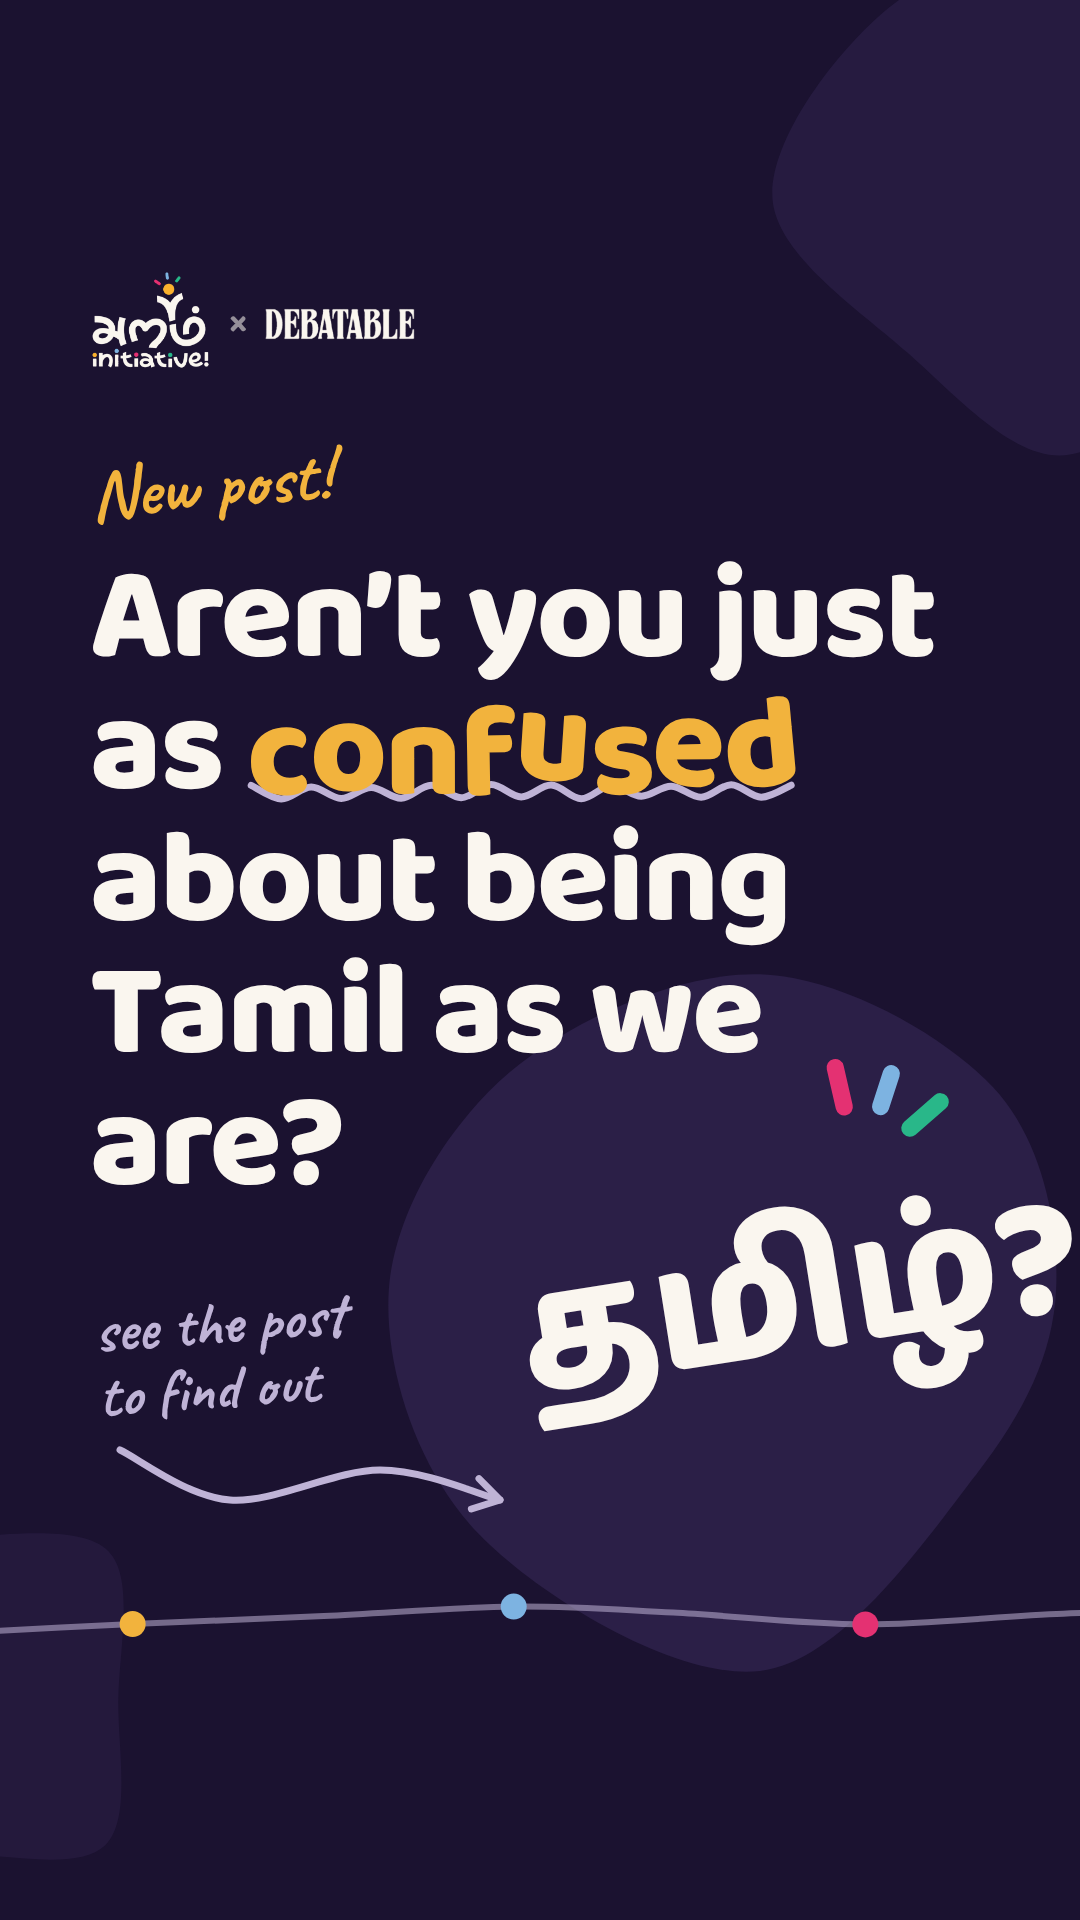
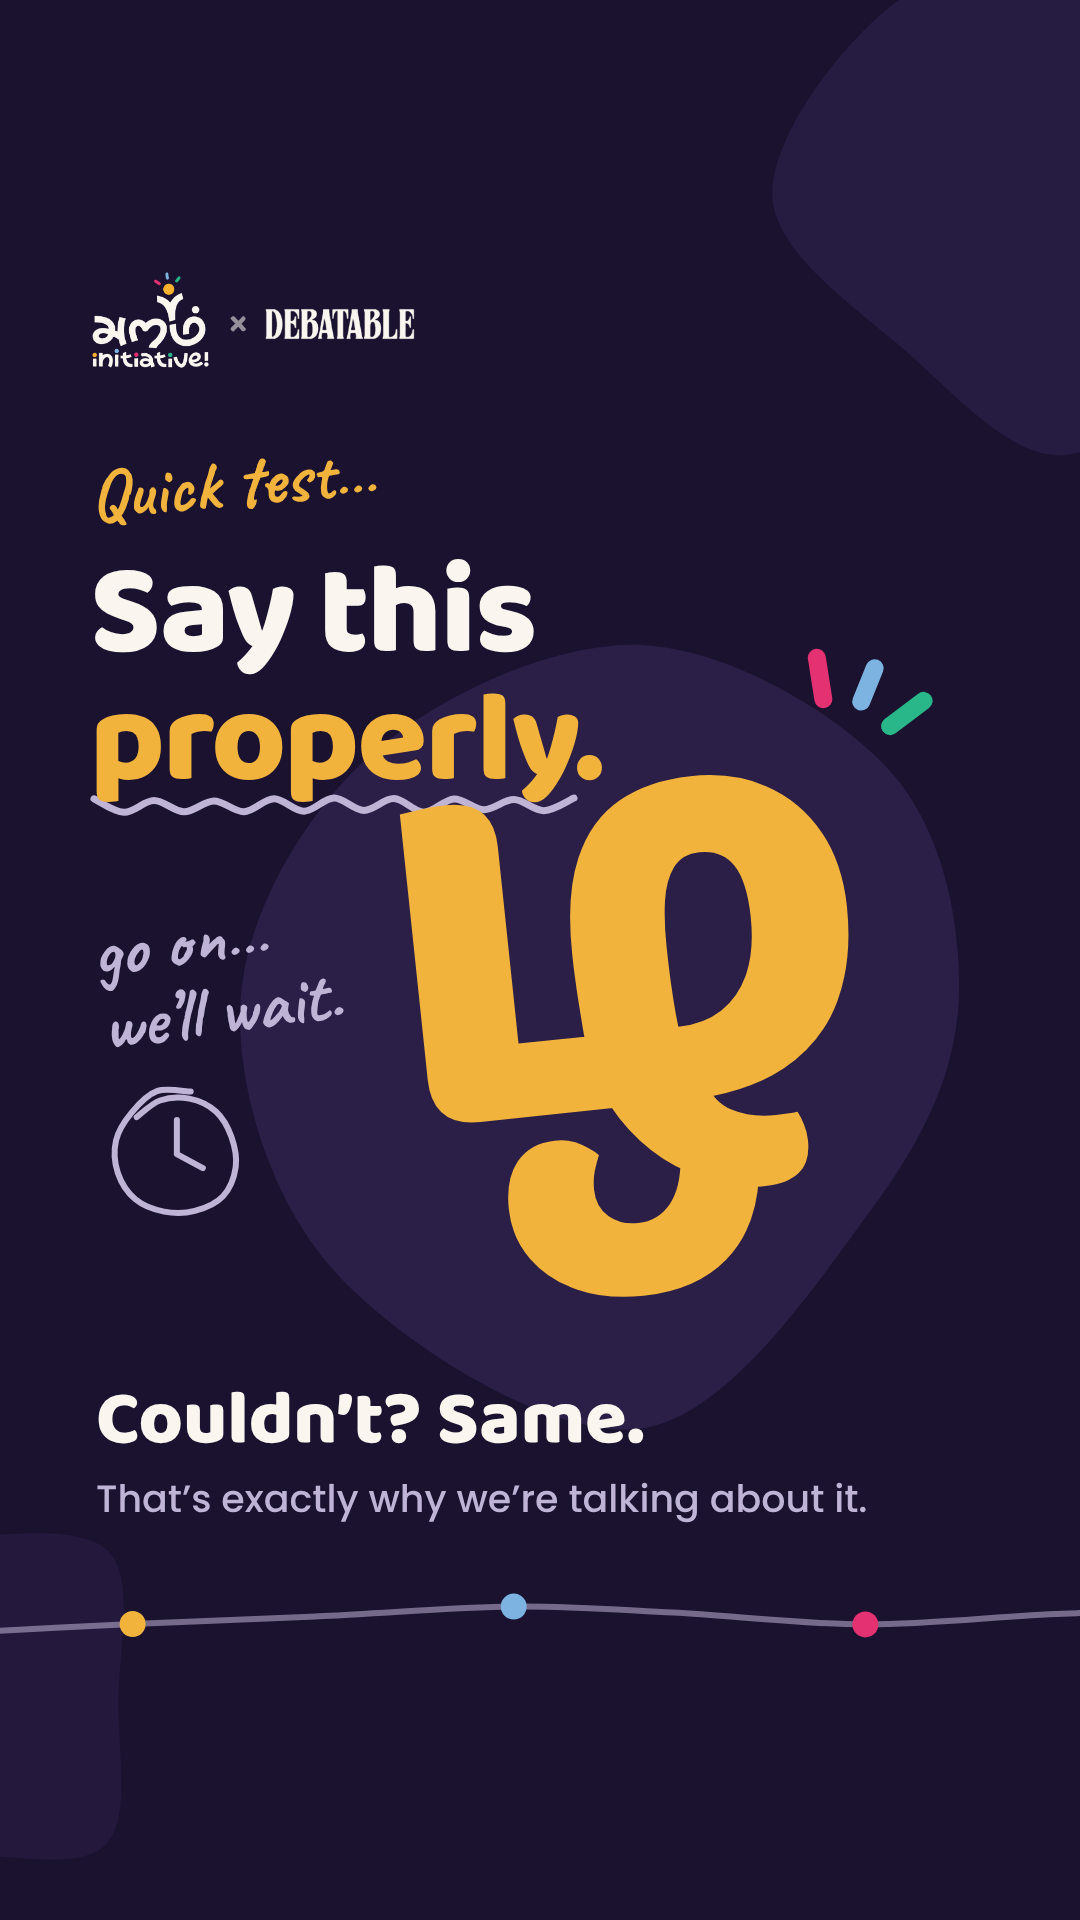
Make the story funny with a stronger hook
Frame 1 opens on a 'say ழ properly' test, frame 2 becomes a
'You might be Tamil if...' tick list, frame 3 'Bring your identity
crisis. We'll bring the debate.' with the workshop details.

Claude-Session: https://claude.ai/code/session_01AGHRGhB2cJ8kR64sZWPzq6

diff --git a/aram-what-is-tamil/story.html b/aram-what-is-tamil/story.html
@@ -59,73 +59,79 @@
 
   /* 1 */
   .f1 .kicker { margin-top: 90px; }
-  .f1 .h { margin-top: 18px; font-size: 132px; }
-  .wobble { display: inline-block; color: var(--orange); }
-  .wobble span { display: inline-block; }
-  .f1 .tamil { position: absolute; left: 520px; top: 1215px; transform: rotate(-9deg); font-family: var(--round); font-weight: 800; font-size: 170px; line-height: 1; color: var(--cream); }
-  .f1 .nudge { position: absolute; left: 96px; top: 1290px; font-size: 62px; line-height: 1.05; color: var(--muted); transform: rotate(-4deg); }
+  .f1 .h { margin-top: 16px; font-size: 128px; }
+  .zha { position: absolute; left: 380px; top: 660px; font-family: var(--round); font-weight: 800; font-size: 560px; line-height: 1; color: var(--orange); transform: rotate(-6deg); }
+  .f1 .wait { position: absolute; left: 96px; top: 900px; font-size: 74px; line-height: 1; color: var(--muted); transform: rotate(-8deg); }
+  .f1 .same { position: absolute; left: 96px; right: 96px; top: 1380px; font-family: var(--round); font-weight: 800; font-size: 76px; line-height: 1.05; }
+  .f1 .same span { display: block; margin-top: 14px; font-family: var(--body); font-weight: 500; font-size: 38px; line-height: 1.3; color: var(--muted); }
 
   /* 2 */
   .f2 .kicker { margin-top: 80px; }
-  .f2 .h { margin-top: 10px; }
-  .opts { align-self: stretch; margin-top: 56px; display: flex; flex-direction: column; gap: 22px; align-items: flex-start; }
-  .opt { font-family: var(--round); font-weight: 700; font-size: 50px; line-height: 1; padding: 26px 40px 16px; border-radius: 70px 52px 66px 48px / 52px 70px 48px 66px; box-shadow: 0 7px 0 rgba(27,18,48,.14); }
-  .f2 .ask { position: absolute; left: 0; right: 0; top: 1330px; text-align: center; font-size: 64px; color: var(--plum); transform: rotate(-3deg); }
+  .f2 .h { margin-top: 10px; font-size: 112px; }
+  .checks { align-self: stretch; margin-top: 46px; display: flex; flex-direction: column; gap: 26px; }
+  .check { display: flex; align-items: center; gap: 26px; }
+  .box { flex: 0 0 auto; width: 74px; height: 74px; position: relative; }
+  .box svg { position: absolute; inset: -14px; width: 102px; height: 102px; overflow: visible; }
+  .check p { font-family: var(--round); font-weight: 700; font-size: 44px; line-height: 1.08; }
+  .check p em { font-style: normal; color: var(--plum); }
+  .f2 .ask { position: absolute; left: 0; right: 0; top: 1395px; text-align: center; font-size: 64px; color: var(--plum); transform: rotate(-3deg); }
 
   /* 3 */
   .f3 .kicker { margin-top: 80px; color: var(--purple-ink); }
-  .f3 .sun { margin-top: 26px; font-family: var(--round); font-weight: 800; font-size: 76px; color: var(--plum); transform: rotate(-4deg); }
-  .f3 .join { font-family: var(--round); font-weight: 800; font-size: 150px; line-height: .9; letter-spacing: -.02em; }
-  .event { align-self: stretch; margin-top: 56px; padding: 40px 44px 36px; background: var(--purple); color: var(--cream);
+  .f3 .h.big { margin-top: 14px; font-size: 128px; line-height: .98; }
+  .f3 .h.big .hl { color: var(--cream); }
+  .f3 .h.med { margin-top: 26px; font-size: 76px; color: var(--plum); }
+  .event { align-self: stretch; margin-top: 50px; padding: 40px 44px 36px; background: var(--purple); color: var(--cream);
     border-radius: 60px 44px 64px 48px / 48px 64px 44px 60px; transform: rotate(-1.5deg); box-shadow: 0 12px 0 rgba(27,18,48,.2); }
   .event .name { font-family: var(--round); font-weight: 800; font-size: 64px; line-height: 1; }
   .event .name span { color: var(--orange); }
   .event .facts { display: flex; flex-wrap: wrap; gap: 14px; margin-top: 24px; }
   .event .facts b { font-family: var(--body); font-weight: 600; font-size: 34px; line-height: 1; padding: 16px 24px 13px; border-radius: 30px 24px 32px 22px / 24px 32px 22px 30px; background: var(--purple-soft); }
   .event .facts b.hl { background: var(--orange); color: var(--purple-ink); }
-  .f3 .ask { position: absolute; left: 0; right: 0; top: 1395px; text-align: center; font-size: 60px; color: var(--purple-ink); transform: rotate(-3deg); }
-
-  body { background: #888; display: flex; flex-direction: row; align-items: flex-start; gap: 40px; padding: 40px; font-family: var(--body); }
+  .f3 .promise { margin-top: 34px; align-self: center; font-size: 56px; color: var(--purple-ink); transform: rotate(-2deg); }
+  .f3 .ask { position: absolute; left: 0; right: 0; top: 1440px; text-align: center; font-size: 54px; color: var(--plum); transform: rotate(-3deg); }
 </style>
 </head>
 <body>
 
-<!-- Story 1: hook, points to the new post -->
+<!-- Story 1: the hook -->
 <section class="story night f1">
   <svg class="decor" id="d1"></svg>
   <div class="content">
     <div class="lockup"><img class="logo" src="brand/aram-logo-cream.png" alt="Aram Initiative"><span class="x">×</span><img class="deb" src="brand/debatable-wordmark-cream.png" alt="Debatable"></div>
-    <div class="kicker">New post!</div>
-    <h1 class="h">Aren’t you just as <span class="wobble" id="confused">confused</span> about being Tamil as we are?</h1>
-    <div class="tamil">தமிழ்?</div>
-    <div class="nudge hand">see the post<br>to find out</div>
+    <div class="kicker">Quick test…</div>
+    <h1 class="h">Say this <span class="hl">properly.</span></h1>
+    <div class="zha" id="zha">ழ</div>
+    <div class="wait hand">go on…<br>we’ll wait.</div>
+    <div class="same">Couldn’t? Same.<br><span>That’s exactly why we’re talking about it.</span></div>
   </div>
 </section>
 
-<!-- Story 2: the questions, with room for a poll / question sticker -->
+<!-- Story 2: the jokes, with room for a Question sticker -->
 <section class="story cream f2">
   <svg class="decor" id="d2"></svg>
   <div class="content">
     <div class="lockup"><img class="logo" src="brand/aram-logo.png" alt="Aram Initiative"><span class="x">×</span><img class="deb" src="brand/debatable-wordmark-night.png" alt="Debatable"></div>
-    <div class="kicker">So what makes you Tamil?</div>
-    <h2 class="h">Is it <span class="hl">…</span></h2>
-    <div class="opts" id="opts"></div>
-    <div class="ask hand">tell us below!</div>
+    <div class="kicker">Tick all that apply</div>
+    <h2 class="h">You might be <span class="hl">Tamil</span> if…</h2>
+    <div class="checks" id="checks"></div>
+    <div class="ask hand">add yours below!</div>
   </div>
 </section>
 
-<!-- Story 3: the event, with room for a link sticker -->
+<!-- Story 3: the event, with room for a Link sticker -->
 <section class="story gold f3">
   <svg class="decor" id="d3"></svg>
   <div class="content">
     <div class="lockup"><img class="logo" src="brand/aram-logo.png" alt="Aram Initiative"><span class="x">×</span><img class="deb" src="brand/debatable-wordmark-night.png" alt="Debatable"></div>
-    <div class="kicker">So let’s talk!</div>
-    <div class="sun">ஞாயிறு</div>
-    <div class="join">Join us this <span id="sunday">Sunday</span>…</div>
+    <div class="kicker">This Sunday</div>
+    <h2 class="h big">Bring your <span class="hl" id="crisis">identity crisis.</span></h2>
+    <div class="h med">We’ll bring the debate.</div>
     <div class="event">
       <div class="name">Tamil Identity <span>Workshop</span></div>
       <div class="facts"><b class="hl">Sun 15 November</b><b class="hl">1:00 PM</b><b>Sugar &amp; Spice Lounge</b></div>
     </div>
+    <div class="promise hand">No ழ test at the door. Promise.</div>
     <div class="ask hand">grab your spot below</div>
   </div>
 </section>
@@ -221,46 +227,57 @@
   (() => {
     const d = document.getElementById("d1");
     blob(d, 1060, 200, 260, C.soft, 3, { o: .7 });
-    blob(d, 760, 1290, 320, C.soft, 7, { sx: 1.15 });
+    blob(d, 640, 1000, 360, C.soft, 7, { sx: 1.1 });
     blob(d, -40, 1700, 180, C.soft, 9, { o: .55 });
-    rays(d, 860, 1170, 18, 1.15, [C.pink, C.sky, C.green]);
-    const w = document.getElementById("confused"), R = rng(41);
-    w.innerHTML = [...w.textContent].map(ch => `<span style="transform: translateY(${f((R() * 2 - 1) * 9)}px) rotate(${f((R() * 2 - 1) * 9)}deg)">${ch}</span>`).join("");
-    underline(d, "#confused", C.muted, 5, { lift: 22 });
-    arrow(d, [[120, 1450], [230, 1500], [380, 1470], [500, 1500]], C.muted, 7);
+    const z = rects(document.getElementById("zha"))[0];
+    rays(d, z.r - 60, z.t + 130, 22, 1.2, [C.pink, C.sky, C.green]);
+    underline(d, ".f1 .hl", C.muted, 5);
+    // a little "thinking" clock doodle by "we'll wait"
+    const w = rects(document.querySelector(".f1 .wait"))[0];
+    scribbleRing(d, w.l + 90, w.b + 90, 56, 56, C.muted, 15, 6);
+    el(d, "path", { d: `M${w.l + 90},${w.b + 90} L${w.l + 90},${w.b + 56} M${w.l + 90},${w.b + 90} L${w.l + 116},${w.b + 104}`, fill: "none", stroke: C.muted, "stroke-width": 6, "stroke-linecap": "round" });
   })();
 
   // 2
   (() => {
     const d = document.getElementById("d2");
     blob(d, 1050, 420, 220, C.lav2, 12);
-    blob(d, 20, 1500, 170, C.lav2, 13);
-    const opts = ["the words we understand?", "what we know of our past?", "where we come from?", "the values we’ve inherited?", "worshipping actors?"];
-    const looks = [[C.purple, C.cream], [C.orange, C.ink], [C.plum, C.cream], ["#ffffff", C.ink], [C.sky, C.ink]];
-    const R = rng(77), box = document.getElementById("opts");
-    opts.forEach((o, i) => {
-      const s = document.createElement("span"); s.className = "opt"; s.textContent = o;
-      s.style.cssText = `background:${looks[i][0]};color:${looks[i][1]};transform:rotate(${f((R() * 2 - 1) * 3.5)}deg);margin-left:${[0, 70, 20, 110, 40][i]}px`;
-      box.appendChild(s);
+    blob(d, 20, 1520, 170, C.lav2, 13);
+    const items = [
+      "You understand Amma’s scolding <em>perfectly</em>… and reply in English",
+      "“Did you eat?” is how your family says <em>I love you</em>",
+      "Every function has 200 uncles you’ve <em>never met</em>",
+      "You’d defend your favourite actor <em>in court</em>",
+      "“Where are you from?” takes you <em>45 minutes</em>",
+    ];
+    const R = rng(91), box = document.getElementById("checks");
+    items.forEach((t, i) => {
+      const row = document.createElement("div"); row.className = "check";
+      row.style.transform = `rotate(${f((R() * 2 - 1) * 1.2)}deg)`;
+      row.innerHTML = `<div class="box"><svg viewBox="-14 -14 102 102"></svg></div><p>${t}</p>`;
+      box.appendChild(row);
+      const sv = row.querySelector("svg");
+      // wobbly hand-drawn box + a scribbled tick
+      const bp = [[0, 2], [37, -2], [74, 1], [72, 38], [75, 74], [36, 72], [1, 75], [-2, 37]].map(([x, y]) => [x + (R() - .5) * 4, y + (R() - .5) * 4]);
+      el(sv, "path", { d: smooth(bp, true), fill: "#ffffff", stroke: C.ink, "stroke-width": 5, "stroke-linejoin": "round" });
+      el(sv, "path", { d: smooth([[10, 38], [26, 56], [34, 62], [52, 30], [86, -6]]), fill: "none", stroke: [C.plum, C.pink, C.green, C.orange, C.sky][i], "stroke-width": 11, "stroke-linecap": "round", "stroke-linejoin": "round" });
     });
-    const h = rects(document.querySelector(".f2 .h"))[0];
-    rays(d, h.r - 40, h.t + 40, 20, .7, [C.orange, C.sky, C.green]);
+    underline(d, ".f2 .hl", C.orange, 8);
     const a = rects(document.querySelector(".f2 .ask"))[0];
-    arrow(d, [[a.l + 640, a.b - 4], [a.l + 700, a.b + 50], [a.l + 690, a.b + 120]], C.plum, 7);
+    arrow(d, [[a.l + 650, a.b - 4], [a.l + 710, a.b + 50], [a.l + 700, a.b + 115]], C.plum, 7);
   })();
 
   // 3
   (() => {
     const d = document.getElementById("d3");
     blob(d, 1040, 380, 230, "#f6c560", 61);
-    blob(d, 60, 1620, 200, "#f6c560", 62);
-    const sd = rects(document.getElementById("sunday"))[0];
-    scribbleRing(d, (sd.l + sd.r) / 2 + 20, (sd.t + sd.b) / 2 + 14, (sd.r - sd.l) / 2 + 60, (sd.b - sd.t) * .34, C.cream, 84, 8);
-    const sn = rects(document.querySelector(".f3 .sun"))[0];
-    rays(d, sn.r + 30, sn.t + 46, 30, .7, [C.purple, C.cream, C.plum]);
-    star(d, 950, 1250, 30, C.purple, 12); star(d, 140, 1290, 22, C.cream, -8);
+    blob(d, 60, 1640, 200, "#f6c560", 62);
+    underline(d, "#crisis", C.cream, 63);
+    const h = rects(document.querySelector(".f3 .h.med"))[0];
+    rays(d, h.r + 40, h.t + 40, 30, .7, [C.purple, C.cream, C.plum]);
+    star(d, 960, 300, 30, C.purple, 12); star(d, 980, 1420, 22, C.cream, -8);
     const a = rects(document.querySelector(".f3 .ask"))[0];
-    arrow(d, [[a.l + 700, a.b - 6], [a.l + 760, a.b + 40], [a.l + 750, a.b + 110]], C.purple, 7);
+    arrow(d, [[a.l + 660, a.b - 6], [a.l + 720, a.b + 40], [a.l + 712, a.b + 100]], C.plum, 7);
   })();
   window.__ready = true;
   });

diff --git a/aram-what-is-tamil/README.md b/aram-what-is-tamil/README.md
@@ -21,7 +21,9 @@
 - `aram-carousel.pdf` / `export-pdf.js`: all 8 slides as one PDF (re-export with `node export-pdf.js`)
 - `story/aram-story-1.png` … `aram-story-3.png`: matching Instagram Story frames (1080×1920),
   `story-preview.png` shows all three; source `story.html`, re-export with `node render-story.js`.
-  Frame 2 leaves room for a Question sticker ("What makes you Tamil?") and frame 3 for a Link sticker
+  Frame 1 is the hook ("Quick test… say ழ properly. Go on… we'll wait."), frame 2 is a "You might be Tamil
+  if…" tick list and leaves room for a Question sticker ("add yours below"), frame 3 ("Bring your identity
+  crisis. We'll bring the debate.") has the workshop details and room for a Link sticker
   (sign-up link), both just above the bottom line. Content stays out of the top 250px and bottom 340px,
   where Instagram puts its own buttons.
 - `brand/`: Aram Initiative logos (site version, cream version for dark slides, and the original file you sent);
